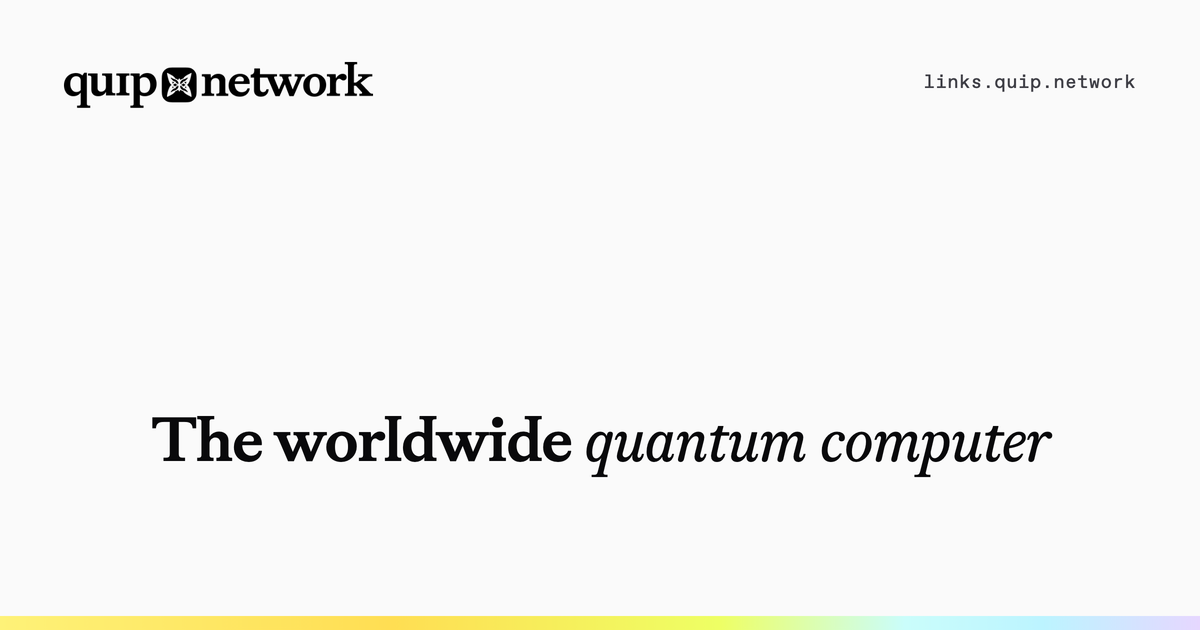
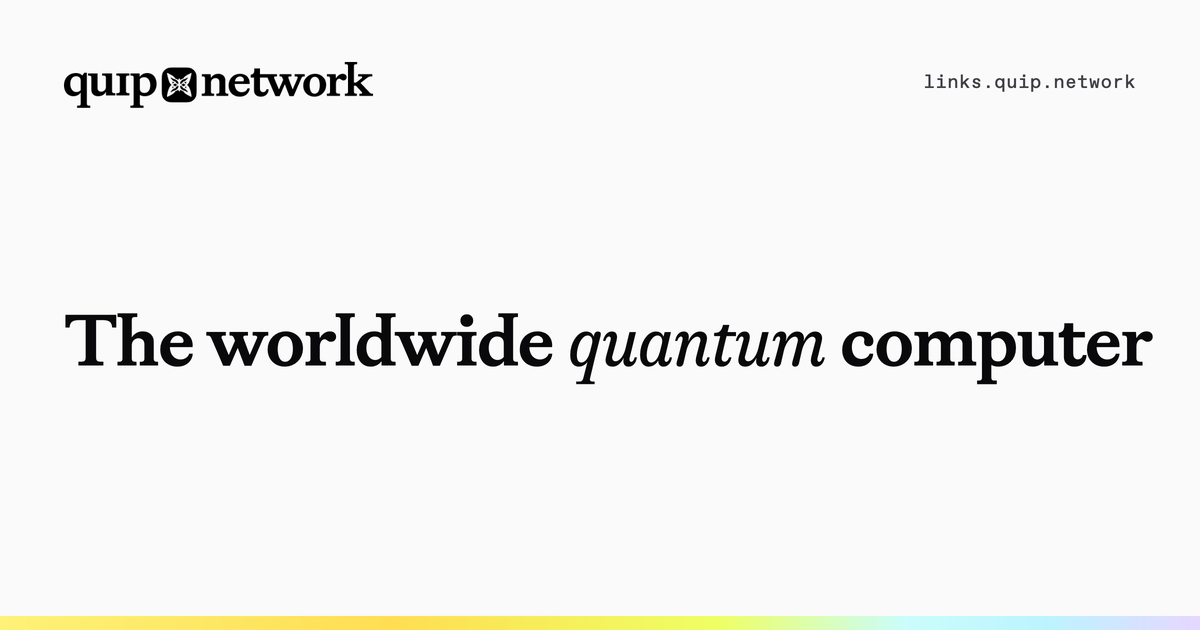
meta: match the headline's italic to the site, and rebalance the card (#9)
The card italicised "quantum computer"; on quip.network and in this page's own
hero only "quantum" is italic, set in Gaisyr Book against Medium roman. Fixes
that, and sizes the headline up to 72px sitting on the card's optical centre,
which closes the dead band that had opened under it.

Drops "Links" and the products/docs/nodes/events list from the title: the URL
line above it already reads links.quip.network, as does the card itself, so the
word appeared three times in one preview. The title is now the same line the
card and the hero carry.

Also repoints the generator's font and image paths at public/, which is where
they actually live, so the documented regeneration command works from a clean
checkout, and bumps the image cache-buster to v=2.

Claude-Session: https://claude.ai/code/session_019Z4MpMmH97HZLxa1HpkVJM

Changed region(s): [[0.0308, 0.4825, 0.9558, 0.6333], [0.1233, 0.6635, 0.8942, 0.754]]

diff --git a/scripts/social-preview.html b/scripts/social-preview.html
@@ -17,20 +17,20 @@
   Rendering at 2x and downsampling is what keeps the type crisp.
 -->
 <html><head><meta charset="utf-8"><style>
-@font-face{font-family:'ABC Gaisyr';src:url('../fonts/ABCGaisyr-Medium.otf') format('opentype');font-weight:500;font-style:normal}
-@font-face{font-family:'ABC Gaisyr';src:url('../fonts/ABCGaisyr-BookItalic.otf') format('opentype');font-weight:400;font-style:italic}
-@font-face{font-family:'ABC Favorit Mono';src:url('../fonts/ABCFavoritMono-Regular.otf') format('opentype');font-weight:450;font-style:normal}
+@font-face{font-family:'ABC Gaisyr';src:url('../public/fonts/ABCGaisyr-Medium.otf') format('opentype');font-weight:500;font-style:normal}
+@font-face{font-family:'ABC Gaisyr';src:url('../public/fonts/ABCGaisyr-BookItalic.otf') format('opentype');font-weight:400;font-style:italic}
+@font-face{font-family:'ABC Favorit Mono';src:url('../public/fonts/ABCFavoritMono-Regular.otf') format('opentype');font-weight:450;font-style:normal}
 *{margin:0;padding:0;box-sizing:border-box}
 html,body{width:1200px;height:630px}
 body{position:relative;background:#fafafa;overflow:hidden}
 .logo{position:absolute;top:62px;left:64px;height:46px}
 .domain{position:absolute;top:70px;right:64px;font-family:'ABC Favorit Mono';font-weight:450;font-size:19px;letter-spacing:.4px;color:#3f3f46}
-.headline{position:absolute;left:64px;right:64px;bottom:158px;font-family:'ABC Gaisyr';font-weight:500;font-size:62px;line-height:1.05;letter-spacing:-1.5px;white-space:nowrap;color:#09090b;text-align:center}
+.headline{position:absolute;left:64px;right:64px;bottom:252px;font-family:'ABC Gaisyr';font-weight:500;font-size:72px;line-height:1.05;letter-spacing:-1.7px;white-space:nowrap;color:#09090b;text-align:center}
 .headline em{font-weight:400;font-style:italic}
 .bar{position:absolute;left:0;right:0;bottom:0;height:14px;background:linear-gradient(to right,#FEF278 0%,#FFDE53 32.69%,#EEFF64 59.9%,#CAFDFB 75.42%,#BCF4FF 86.91%,#E6D7FF 100%)}
 </style></head><body>
-<img class="logo" src="../images/quip-lockup-full-alt.png">
+<img class="logo" src="../public/images/quip-lockup-full-alt.png">
 <div class="domain">links.quip.network</div>
-<div class="headline">The worldwide <em>quantum computer</em></div>
+<div class="headline">The worldwide <em>quantum</em> computer</div>
 <div class="bar"></div>
 </body></html>

diff --git a/index.html b/index.html
@@ -6,7 +6,7 @@
     <meta name="viewport" content="width=device-width, initial-scale=1.0" />
     <meta name="theme-color" content="#fafafa" />
 
-    <title>Quip Network Links: products, docs, nodes and events</title>
+    <title>Quip Network: the worldwide quantum computer</title>
     <meta
       name="description"
       content="Every Quip Network link in one place: QuipSwap, accounts, running a node, the whitepaper, GitHub, research and where to meet us in person."
@@ -16,24 +16,24 @@
     <meta property="og:site_name" content="Quip Network" />
     <meta property="og:type" content="website" />
     <meta property="og:url" content="https://links.quip.network/" />
-    <meta property="og:title" content="Quip Network Links: products, docs, nodes and events" />
+    <meta property="og:title" content="Quip Network: the worldwide quantum computer" />
     <meta
       property="og:description"
       content="Every Quip Network link in one place: QuipSwap, accounts, running a node, the whitepaper, GitHub, research and where to meet us in person."
     />
-    <meta property="og:image" content="https://links.quip.network/images/social-preview.png?v=1" />
+    <meta property="og:image" content="https://links.quip.network/images/social-preview.png?v=2" />
     <meta property="og:image:width" content="1200" />
     <meta property="og:image:height" content="630" />
     <meta property="og:image:alt" content="Quip Network — the worldwide quantum computer" />
 
     <meta name="twitter:card" content="summary_large_image" />
     <meta name="twitter:site" content="@quipnetwork" />
-    <meta name="twitter:title" content="Quip Network Links: products, docs, nodes and events" />
+    <meta name="twitter:title" content="Quip Network: the worldwide quantum computer" />
     <meta
       name="twitter:description"
       content="Every Quip Network link in one place: QuipSwap, accounts, running a node, the whitepaper, GitHub, research and where to meet us in person."
     />
-    <meta name="twitter:image" content="https://links.quip.network/images/social-preview.png?v=1" />
+    <meta name="twitter:image" content="https://links.quip.network/images/social-preview.png?v=2" />
     <meta name="twitter:image:alt" content="Quip Network — the worldwide quantum computer" />
   </head>
   <body>
